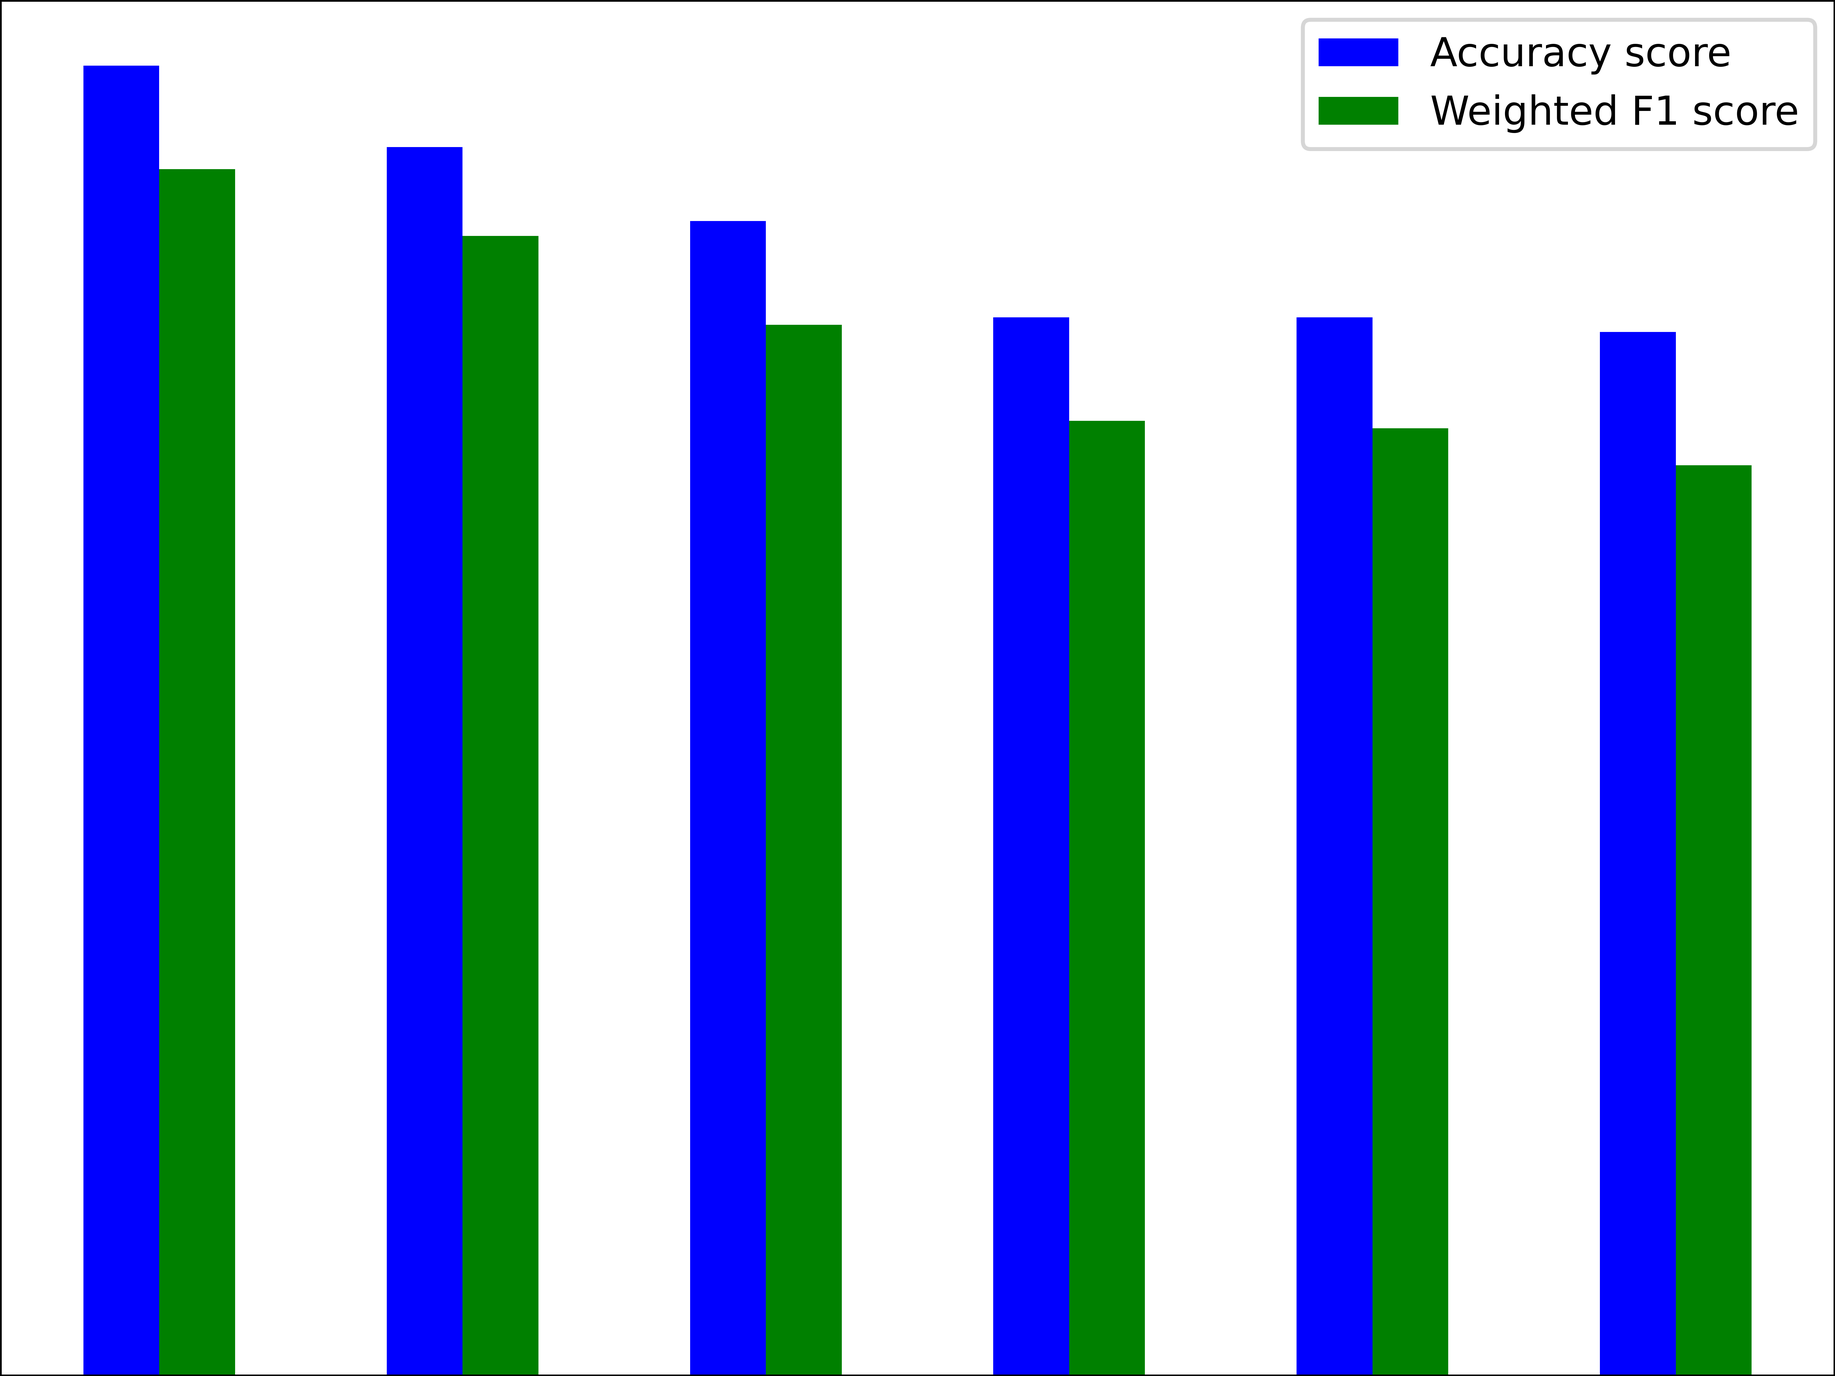
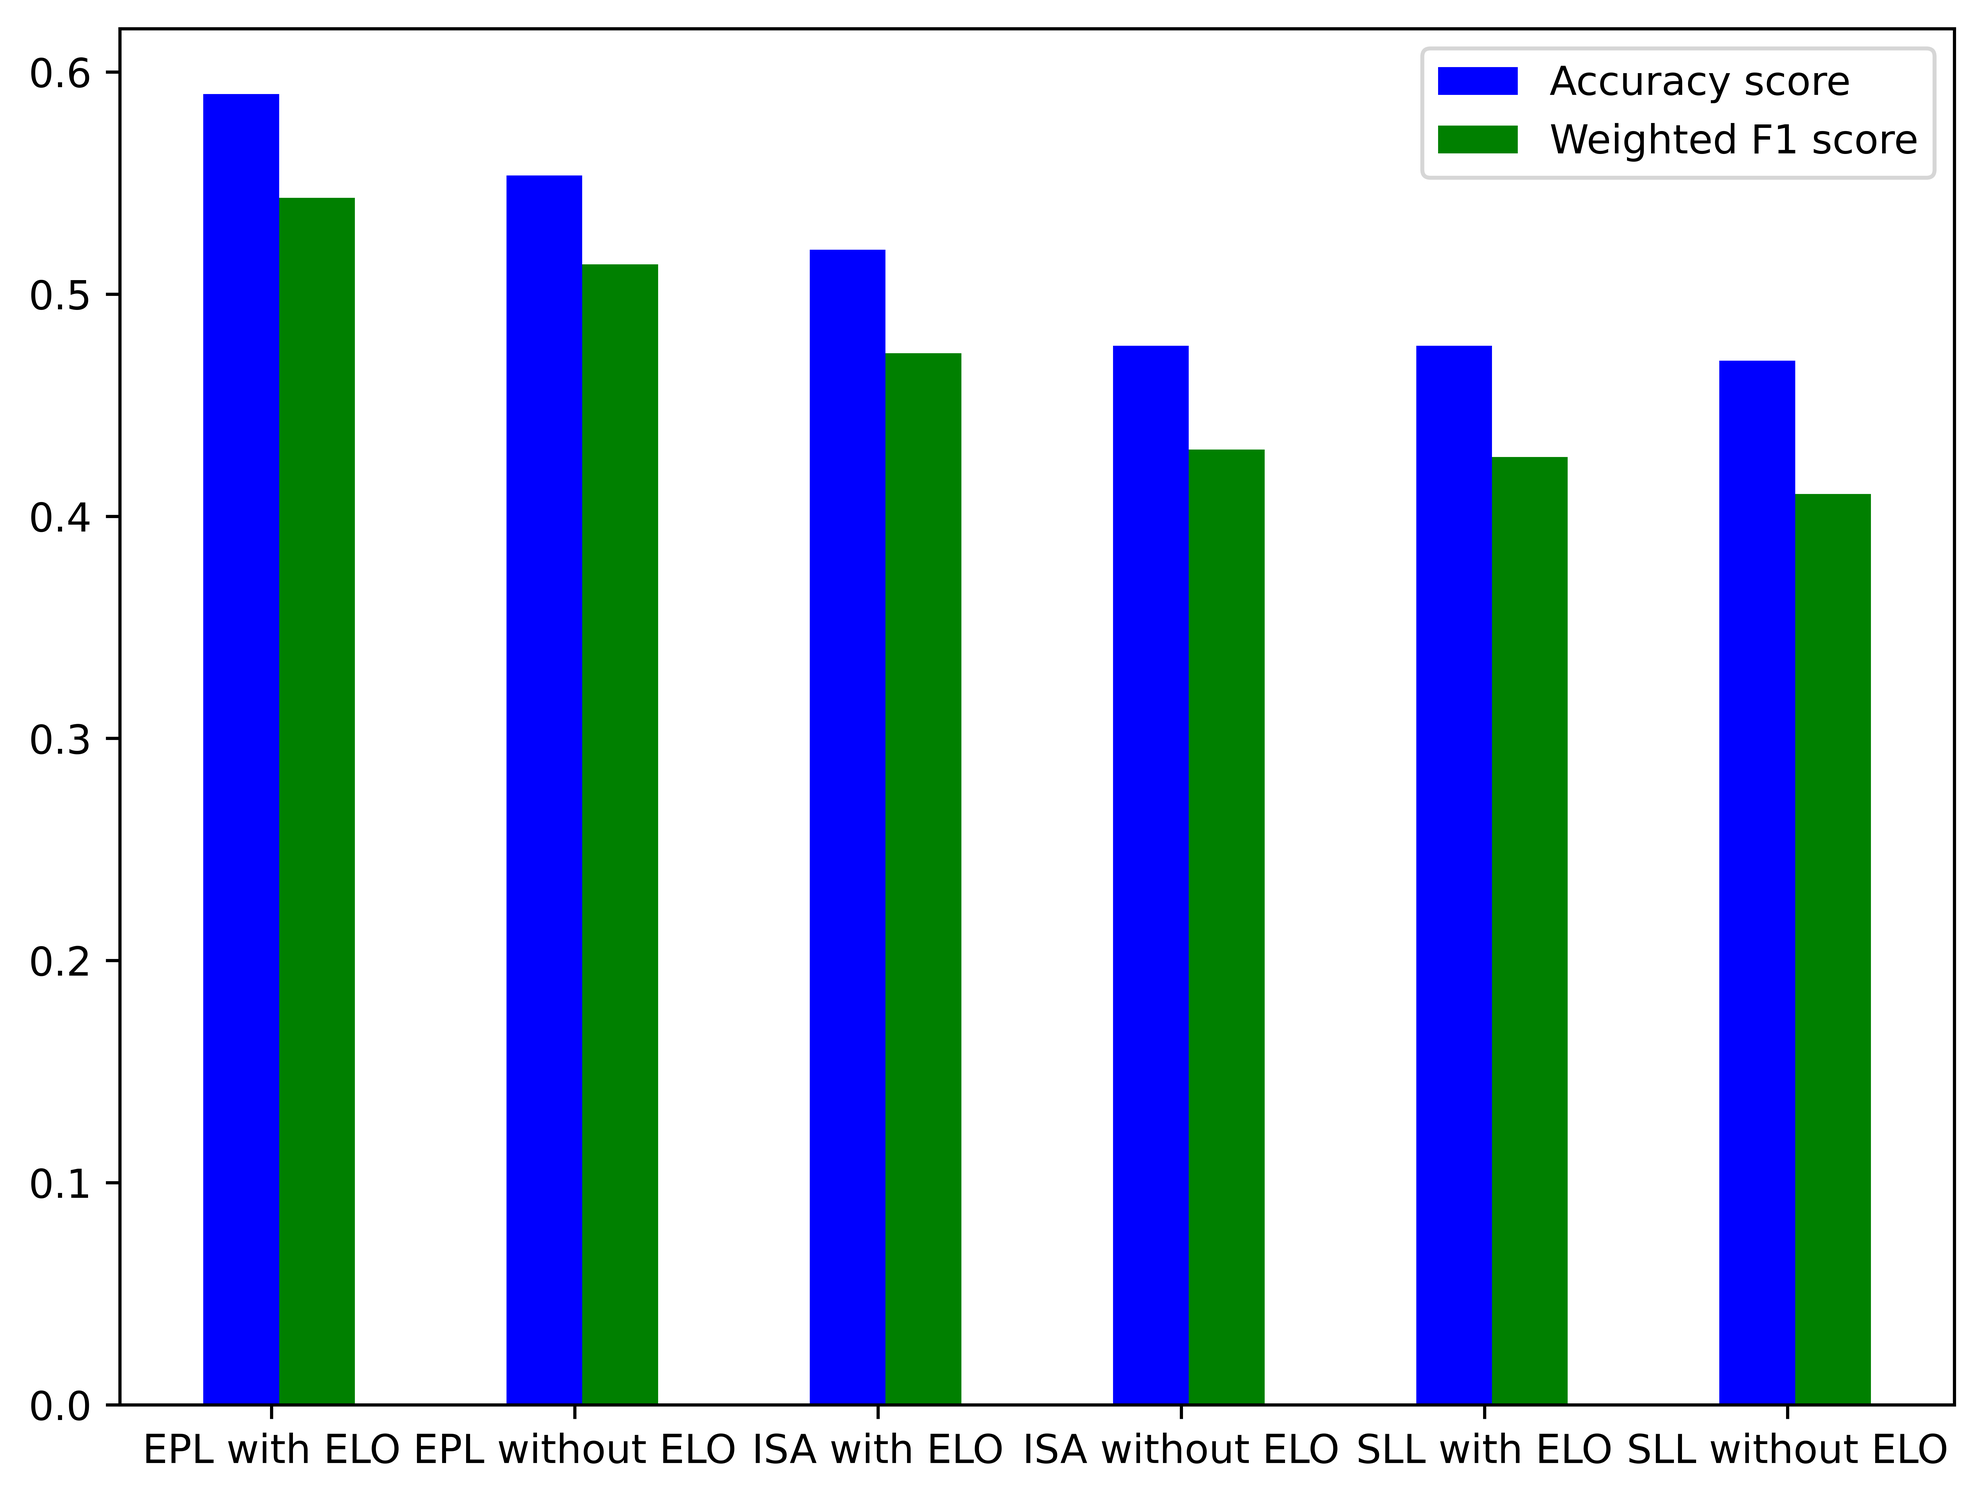
1

diff --git a/plots.py b/plots.py
@@ -1,43 +1,23 @@
-import collections
-import datetime
 import logging
 import os
-import re
 import sys
 
-import pandas as pd
 import numpy as np
 import matplotlib.pyplot as plt
-from sklearn import metrics
-from sklearn.preprocessing import MinMaxScaler, StandardScaler
-from sklearn.feature_selection import SelectKBest, chi2, f_regression, f_classif, mutual_info_classif
-from sklearn.decomposition import PCA
-from sklearn.model_selection import train_test_split, GridSearchCV
-from sklearn.metrics import mean_squared_error, accuracy_score, f1_score, precision_score, recall_score
-from sklearn.neural_network import MLPClassifier
-from sklearn.neighbors import KNeighborsClassifier
-from sklearn.svm import SVC
-from sklearn.gaussian_process import GaussianProcessClassifier
-from sklearn.gaussian_process.kernels import RBF
-from sklearn.tree import DecisionTreeClassifier
-from sklearn.ensemble import RandomForestClassifier, AdaBoostClassifier
-from sklearn.naive_bayes import GaussianNB
-from sklearn.discriminant_analysis import QuadraticDiscriminantAnalysis
-from lightgbm import LGBMClassifier
-from sklearn.cluster import KMeans, DBSCAN
-import warnings
 
 from constants import *
 
 logging.basicConfig(stream=sys.stdout, level=logging.INFO)
 logger = logging.getLogger()
 
-
 metrics_table = {'EPL with ELO': {'RBF_SVM': {'Accuracy score': '0.61', 'Weighted F1 score': '0.55', 'Home win precision': 0.6312056737588653, 'Home win recall': 0.8018018018018018, 'Home win f1': 0.7063492063492063, 'Draw precision': 1.0, 'Draw recall': 0.022727272727272728, 'Draw f1': 0.044444444444444446, 'Away win precision': 0.5697674418604651, 'Away win recall': 0.6712328767123288, 'Away win f1': 0.6163522012578616}, 'Random_Forest': {'Accuracy score': '0.57', 'Weighted F1 score': '0.52', 'Home win precision': 0.6363636363636364, 'Home win recall': 0.7567567567567568, 'Home win f1': 0.691358024691358, 'Draw precision': 0.2, 'Draw recall': 0.022727272727272728, 'Draw f1': 0.04081632653061225, 'Away win precision': 0.5054945054945055, 'Away win recall': 0.6301369863013698, 'Away win f1': 0.5609756097560975}, 'LGBM': {'Accuracy score': '0.59', 'Weighted F1 score': '0.56', 'Home win precision': 0.6693548387096774, 'Home win recall': 0.7477477477477478, 'Home win f1': 0.7063829787234043, 'Draw precision': 0.3333333333333333, 'Draw recall': 0.11363636363636363, 'Draw f1': 0.16949152542372878, 'Away win precision': 0.5168539325842697, 'Away win recall': 0.6301369863013698, 'Away win f1': 0.5679012345679012}}, 'EPL without ELO': {'RBF_SVM': {'Accuracy score': '0.55', 'Weighted F1 score': '0.50', 'Home win precision': 0.583941605839416, 'Home win recall': 0.7207207207207207, 'Home win f1': 0.6451612903225806, 'Draw precision': 1.0, 'Draw recall': 0.022727272727272728, 'Draw f1': 0.044444444444444446, 'Away win precision': 0.4888888888888889, 'Away win recall': 0.6027397260273972, 'Away win f1': 0.5398773006134968}, 'Random_Forest': {'Accuracy score': '0.54', 'Weighted F1 score': '0.49', 'Home win precision': 0.5925925925925926, 'Home win recall': 0.7207207207207207, 'Home win f1': 0.6504065040650406, 'Draw precision': 0.2, 'Draw recall': 0.022727272727272728, 'Draw f1': 0.04081632653061225, 'Away win precision': 0.4772727272727273, 'Away win recall': 0.5753424657534246, 'Away win f1': 0.5217391304347826}, 'LGBM': {'Accuracy score': '0.57', 'Weighted F1 score': '0.55', 'Home win precision': 0.6201550387596899, 'Home win recall': 0.7207207207207207, 'Home win f1': 0.6666666666666666, 'Draw precision': 0.5384615384615384, 'Draw recall': 0.1590909090909091, 'Draw f1': 0.2456140350877193, 'Away win precision': 0.5, 'Away win recall': 0.589041095890411, 'Away win f1': 0.5408805031446541}}, 'ISA with ELO': {'RBF_SVM': {'Accuracy score': '0.54', 'Weighted F1 score': '0.48', 'Home win precision': 0.5106382978723404, 'Home win recall': 0.8372093023255814, 'Home win f1': 0.6343612334801763, 'Draw precision': 0.2, 'Draw recall': 0.034482758620689655, 'Draw f1': 0.0588235294117647, 'Away win precision': 0.6493506493506493, 'Away win recall': 0.5952380952380952, 'Away win f1': 0.6211180124223602}, 'Random_Forest': {'Accuracy score': '0.51', 'Weighted F1 score': '0.45', 'Home win precision': 0.4788732394366197, 'Home win recall': 0.7906976744186046, 'Home win f1': 0.5964912280701755, 'Draw precision': 0.3333333333333333, 'Draw recall': 0.034482758620689655, 'Draw f1': 0.0625, 'Away win precision': 0.5875, 'Away win recall': 0.5595238095238095, 'Away win f1': 0.573170731707317}, 'LGBM': {'Accuracy score': '0.51', 'Weighted F1 score': '0.49', 'Home win precision': 0.47107438016528924, 'Home win recall': 0.6627906976744186, 'Home win f1': 0.5507246376811594, 'Draw precision': 0.4074074074074074, 'Draw recall': 0.1896551724137931, 'Draw f1': 0.2588235294117647, 'Away win precision': 0.6, 'Away win recall': 0.5714285714285714, 'Away win f1': 0.5853658536585366}},
                  'ISA without ELO': {'RBF_SVM': {'Accuracy score': '0.47', 'Weighted F1 score': '0.40', 'Home win precision': 0.453416149068323, 'Home win recall': 0.8488372093023255, 'Home win f1': 0.5910931174089068, 'Draw precision': 0.0, 'Draw recall': 0.0, 'Draw f1': 0.0, 'Away win precision': 0.5573770491803278, 'Away win recall': 0.40476190476190477, 'Away win f1': 0.46896551724137925}, 'Random_Forest': {'Accuracy score': '0.49', 'Weighted F1 score': '0.44', 'Home win precision': 0.46206896551724136, 'Home win recall': 0.7790697674418605, 'Home win f1': 0.5800865800865801, 'Draw precision': 0.45454545454545453, 'Draw recall': 0.08620689655172414, 'Draw f1': 0.14492753623188406, 'Away win precision': 0.5416666666666666, 'Away win recall': 0.4642857142857143, 'Away win f1': 0.5}, 'LGBM': {'Accuracy score': '0.47', 'Weighted F1 score': '0.45', 'Home win precision': 0.45038167938931295, 'Home win recall': 0.686046511627907, 'Home win f1': 0.543778801843318, 'Draw precision': 0.35714285714285715, 'Draw recall': 0.1724137931034483, 'Draw f1': 0.23255813953488377, 'Away win precision': 0.5652173913043478, 'Away win recall': 0.4642857142857143, 'Away win f1': 0.5098039215686274}}, 'SLL with ELO': {'RBF_SVM': {'Accuracy score': '0.49', 'Weighted F1 score': '0.41', 'Home win precision': 0.5182926829268293, 'Home win recall': 0.8252427184466019, 'Home win f1': 0.6367041198501874, 'Draw precision': 0.375, 'Draw recall': 0.04285714285714286, 'Draw f1': 0.07692307692307691, 'Away win precision': 0.4107142857142857, 'Away win recall': 0.41818181818181815, 'Away win f1': 0.41441441441441446}, 'Random_Forest': {'Accuracy score': '0.46', 'Weighted F1 score': '0.42', 'Home win precision': 0.5347222222222222, 'Home win recall': 0.7475728155339806, 'Home win f1': 0.6234817813765182, 'Draw precision': 0.2, 'Draw recall': 0.08571428571428572, 'Draw f1': 0.12000000000000001, 'Away win precision': 0.4074074074074074, 'Away win recall': 0.4, 'Away win f1': 0.4036697247706423}, 'LGBM': {'Accuracy score': '0.48', 'Weighted F1 score': '0.45', 'Home win precision': 0.5503875968992248, 'Home win recall': 0.6893203883495146, 'Home win f1': 0.6120689655172414, 'Draw precision': 0.34375, 'Draw recall': 0.15714285714285714, 'Draw f1': 0.21568627450980393, 'Away win precision': 0.40298507462686567, 'Away win recall': 0.4909090909090909, 'Away win f1': 0.4426229508196721}}, 'SLL without ELO': {'RBF_SVM': {'Accuracy score': '0.46', 'Weighted F1 score': '0.37', 'Home win precision': 0.4915254237288136, 'Home win recall': 0.8446601941747572, 'Home win f1': 0.6214285714285713, 'Draw precision': 0.2, 'Draw recall': 0.014285714285714285, 'Draw f1': 0.026666666666666665, 'Away win precision': 0.3695652173913043, 'Away win recall': 0.3090909090909091, 'Away win f1': 0.33663366336633666}, 'Random_Forest': {'Accuracy score': '0.47', 'Weighted F1 score': '0.41', 'Home win precision': 0.525974025974026, 'Home win recall': 0.7864077669902912, 'Home win f1': 0.6303501945525293, 'Draw precision': 0.2727272727272727, 'Draw recall': 0.08571428571428572, 'Draw f1': 0.13043478260869562, 'Away win precision': 0.38461538461538464, 'Away win recall': 0.36363636363636365, 'Away win f1': 0.37383177570093457}, 'LGBM': {'Accuracy score': '0.48', 'Weighted F1 score': '0.45', 'Home win precision': 0.5390070921985816, 'Home win recall': 0.7378640776699029, 'Home win f1': 0.6229508196721312, 'Draw precision': 0.3870967741935484, 'Draw recall': 0.17142857142857143, 'Draw f1': 0.2376237623762376, 'Away win precision': 0.39285714285714285, 'Away win recall': 0.4, 'Away win f1': 0.39639639639639634}}}
 
 
-def big_table():
+def big_table(metrics_table):
+    """
+    plot various classification metrics
+    """
     row_labels = []
     col_labels = []
 
@@ -86,10 +66,16 @@ def big_table():
 
     # plt.show()
     plt.tight_layout()
-    plt.savefig("charts/classification_metrics.png", dpi=1000)
+    pic_path = os.path.join("charts", "classification_metrics.png")
+    plt.savefig(pic_path, dpi=1000)
+
+    logger.info("chart saved to {}".format(pic_path))
 
 
-def league_comparison():
+def league_comparison(metrics_table):
+    """
+    compare accuracy score and f1 score on difference leagues
+    """
     # compare leagure data
     league_keys = {'EPL': ['EPL with ELO', 'EPL without ELO'],
                    'ISA': ['ISA with ELO', 'ISA without ELO'],
@@ -132,10 +118,16 @@ def league_comparison():
     # plt.title('Different league model performance')
     plt.legend()
     # plt.tight_layout()
-    plt.savefig("charts/league_comparison.png", dpi=1000)
+    pic_path = os.path.join("charts", "league_comparison.jpg")
+    plt.savefig(pic_path, bbox_inches='tight', dpi=1000)
+
+    logger.info("chart saved to {}".format(pic_path))
 
 
-def league_elo_comparison():
+def league_elo_comparison(metrics_table):
+    """
+    compare leagues with and without ELO
+    """
     # compare leagure data
     league_elo_keys = ['EPL with ELO', 'EPL without ELO', 'ISA with ELO',
                        'ISA without ELO', 'SLL with ELO', 'SLL without ELO']
@@ -160,22 +152,22 @@ def league_elo_comparison():
             score = np.array(score)
             league_elo_compare[le][average_metrics[v2i]] = np.average(score)
 
-    print(league_elo_compare)
-    with_elo = ['EPL with ELO', 'ISA with ELO', 'SLL with ELO']
-    without_elo = ['EPL without ELO', 'ISA without ELO', 'SLL without ELO']
+    # print(league_elo_compare)
+    # with_elo = ['EPL with ELO', 'ISA with ELO', 'SLL with ELO']
+    # without_elo = ['EPL without ELO', 'ISA without ELO', 'SLL without ELO']
 
-    with_elo_acc = [league_elo_compare[x]['Accuracy score'] for x in with_elo]
-    with_elo_f1 = [league_elo_compare[x]['Weighted F1 score']
-                   for x in with_elo]
-    without_elo_acc = [league_elo_compare[x]['Accuracy score']
-                       for x in without_elo]
-    without_elo_f1 = [league_elo_compare[x]['Weighted F1 score']
-                      for x in without_elo]
+    # with_elo_acc = [league_elo_compare[x]['Accuracy score'] for x in with_elo]
+    # with_elo_f1 = [league_elo_compare[x]['Weighted F1 score']
+    #                for x in with_elo]
+    # without_elo_acc = [league_elo_compare[x]['Accuracy score']
+    #                    for x in without_elo]
+    # without_elo_f1 = [league_elo_compare[x]['Weighted F1 score']
+    #                   for x in without_elo]
 
-    print((sum(with_elo_acc) - sum(without_elo_acc)) /
-          3, (sum(with_elo_f1)-sum(without_elo_f1))/3)
+    # print((sum(with_elo_acc) - sum(without_elo_acc)) /
+    #       3, (sum(with_elo_f1)-sum(without_elo_f1))/3)
 
-    return
+    # return
 
     fig = plt.figure()
     X = np.arange(6)
@@ -195,10 +187,17 @@ def league_elo_comparison():
     # plt.title('Different league model performance')
     plt.legend()
     # plt.tight_layout()
-    plt.savefig("charts/league_elo_comparison.png", dpi=1000)
+    pic_path = os.path.join("charts", "league_elo_comparison.png")
+    plt.savefig(pic_path, bbox_inches='tight', dpi=1000)
+
+    logger.info("chart saved to {}".format(pic_path))
 
 
-def elo_comparison():
+def elo_comparison(metrics_table_num):
+    """
+    compare results with and without ELO
+    """
+
     elo_keys = {'with': ['EPL with ELO', 'ISA with ELO', 'SLL with ELO'],
                 'without': ['EPL without ELO', 'ISA without ELO', 'SLL without ELO']}
 
@@ -221,17 +220,17 @@ def elo_comparison():
 
             elo_compare[w][metrics[v2i]] = score / 9
 
-    print(elo_compare)
+    # print(elo_compare)
 
     with_elo = list(elo_compare['with'].values())
     without_elo = list(elo_compare['without'].values())
 
-    print(with_elo, without_elo)
+    # print(with_elo, without_elo)
 
     diff = [with_elo[i] - without_elo[i] for i in range(len(with_elo))]
 
-    print(diff, sum(diff)/9)
-    print(sum(diff[: 3])/3, sum(diff[3: 6])/3, sum(diff[6:])/3)
+    # print(diff, sum(diff)/9)
+    # print(sum(diff[: 3])/3, sum(diff[3: 6])/3, sum(diff[6:])/3)
 
     fig = plt.figure()
     X = np.arange(len(with_elo))
@@ -247,15 +246,12 @@ def elo_comparison():
     # plt.title('Different league model performance')
     plt.legend()
     # plt.tight_layout()
-    plt.savefig("charts/elo_comparison.png", dpi=1000)
+    pic_path = os.path.join("charts", "elo_comparison.png")
+    plt.savefig(pic_path, bbox_inches='tight', dpi=1000)
+
+    logger.info("chart saved to {}".format(pic_path))
 
 
 if __name__ == "__main__":
-    metrics_table_num = metrics_table.copy()
-
-    for l1, v1 in metrics_table_num.items():
-        for l2, v2 in v1.items():
-            for l3, v3 in v2.items():
-                metrics_table_num[l1][l2][l3] = float(v3)
 
     league_elo_comparison()

diff --git a/classification.py b/classification.py
@@ -243,10 +243,6 @@ def train(X_train_list, X_test_list, y_train, y_test, classifier, classifier_nam
             for k, v in score.items():
                 result[l + ' ' + k] = v
 
-        # print(result)
-
-        return result
-
         y_pred_hw = y_pred[home_win_mask]
         y_pred_d = y_pred[draw_mask]
         y_pred_aw = y_pred[away_win_mask]
@@ -255,25 +251,31 @@ def train(X_train_list, X_test_list, y_train, y_test, classifier, classifier_nam
             len(y_pred_hw[y_pred_hw == 1]), len(y_pred_hw),
             len(y_pred_d[y_pred_d == 0]), len(y_pred_d), len(y_pred_aw[y_pred_aw == -1]), len(y_pred_aw)))
 
-        print('-------------------------------')
+        return result
 
 
 def hwin_binary(np_array):
+    # replace draw and away win with 0
     return np.where(np_array == -1, 0, np_array)
 
 
 def draw_binary(np_array):
+    # draw:1, home win/away win:0
     np_array = np.where(np_array == 0, 2, np_array)
     np_array = np.where(np_array != 2, 0, np_array)
     return np.where(np_array == 2, 1, np_array)
 
 
 def awin_binary(np_array):
+    # home win/draw:0, away win:1
     np_array = np.where(np_array != -1, 0, np_array)
     return np.where(np_array == -1, 1, np_array)
 
 
 def classif_metrics(y_true, y_pred):
+    """
+    calculate precision, draw and f1 for labels
+    """
 
     y_true_hw = hwin_binary(y_true)
     y_pred_hw = hwin_binary(y_pred)
@@ -299,9 +301,10 @@ def classif_metrics(y_true, y_pred):
     return {'Home win': home_win, 'Draw': draw, 'Away win': away_win}
 
 
-if __name__ == "__main__":
-
-    leagues = [['EPL'], ['ISA'], ['SLL']]
+def main(leagues=[['EPL'], ['ISA'], ['SLL']]):
+    """
+    calculate various classification metrics for each leagues
+    """
     metrics_table = {}
 
     for league in leagues:
@@ -328,7 +331,7 @@ if __name__ == "__main__":
                 "RBF_SVM": SVC(kernel='rbf', C=1.5, gamma=0.15, random_state=46),
                 "Random_Forest": RandomForestClassifier(criterion='entropy', max_depth=7, n_estimators=31, random_state=46),
                 "LGBM": LGBMClassifier(max_depth=3, min_data_in_leaf=12, num_leaves=20, objective='multiclass', learning_rate=0.1,
-                                       num_class=3, n_estimators=60, device_type='cpu', random_state=46),
+                                       num_class=3, n_estimators=60, device_type='cpu', random_state=46, verbosity=-1),
             }
 
             print("League: {}, With ELO: {}".format(str(league), str(has_elo)))
@@ -340,6 +343,15 @@ if __name__ == "__main__":
 
                 metrics_table[table_title][name] = scores
 
+            print(scores)
+
             print("=====================================")
+
+    return metrics_table
+
+
+if __name__ == "__main__":
+
+    metrics_table = main()
 
     print(metrics_table)

diff --git a/main.py b/main.py
@@ -1,0 +1,37 @@
+import argparse
+
+import classification
+import plots
+
+desc = 'The is a soccer result prediction program.\n run'
+
+# Initiate the parser with a description
+parser = argparse.ArgumentParser(description=desc)
+
+parser.add_argument('--plot', action='store', type=str,
+                    help=f"'--plot all' generate a char of all classification matrics;\
+                         '--plot league' generate a chart that compare accuracy score and f1 score of different leagues;\
+                         '--plot elo' compares leagues with and without ELO;\
+                         '--league-elo league' compares results with and without ELO'")
+
+args = parser.parse_args()
+
+if __name__ == "__main__":
+
+    metrics_table = classification.main()
+
+    metrics_table_num = metrics_table.copy()
+
+    for l1, v1 in metrics_table_num.items():
+        for l2, v2 in v1.items():
+            for l3, v3 in v2.items():
+                metrics_table_num[l1][l2][l3] = float(v3)
+
+    if args.plot == 'all':
+        plots.big_table(metrics_table)
+    elif args.plot == 'league':
+        plots.league_comparison(metrics_table_num)
+    elif args.plot == 'elo':
+        plots.elo_comparison(metrics_table_num)
+    elif args.plot == 'league-elo':
+        plots.league_elo_comparison(metrics_table_num)
